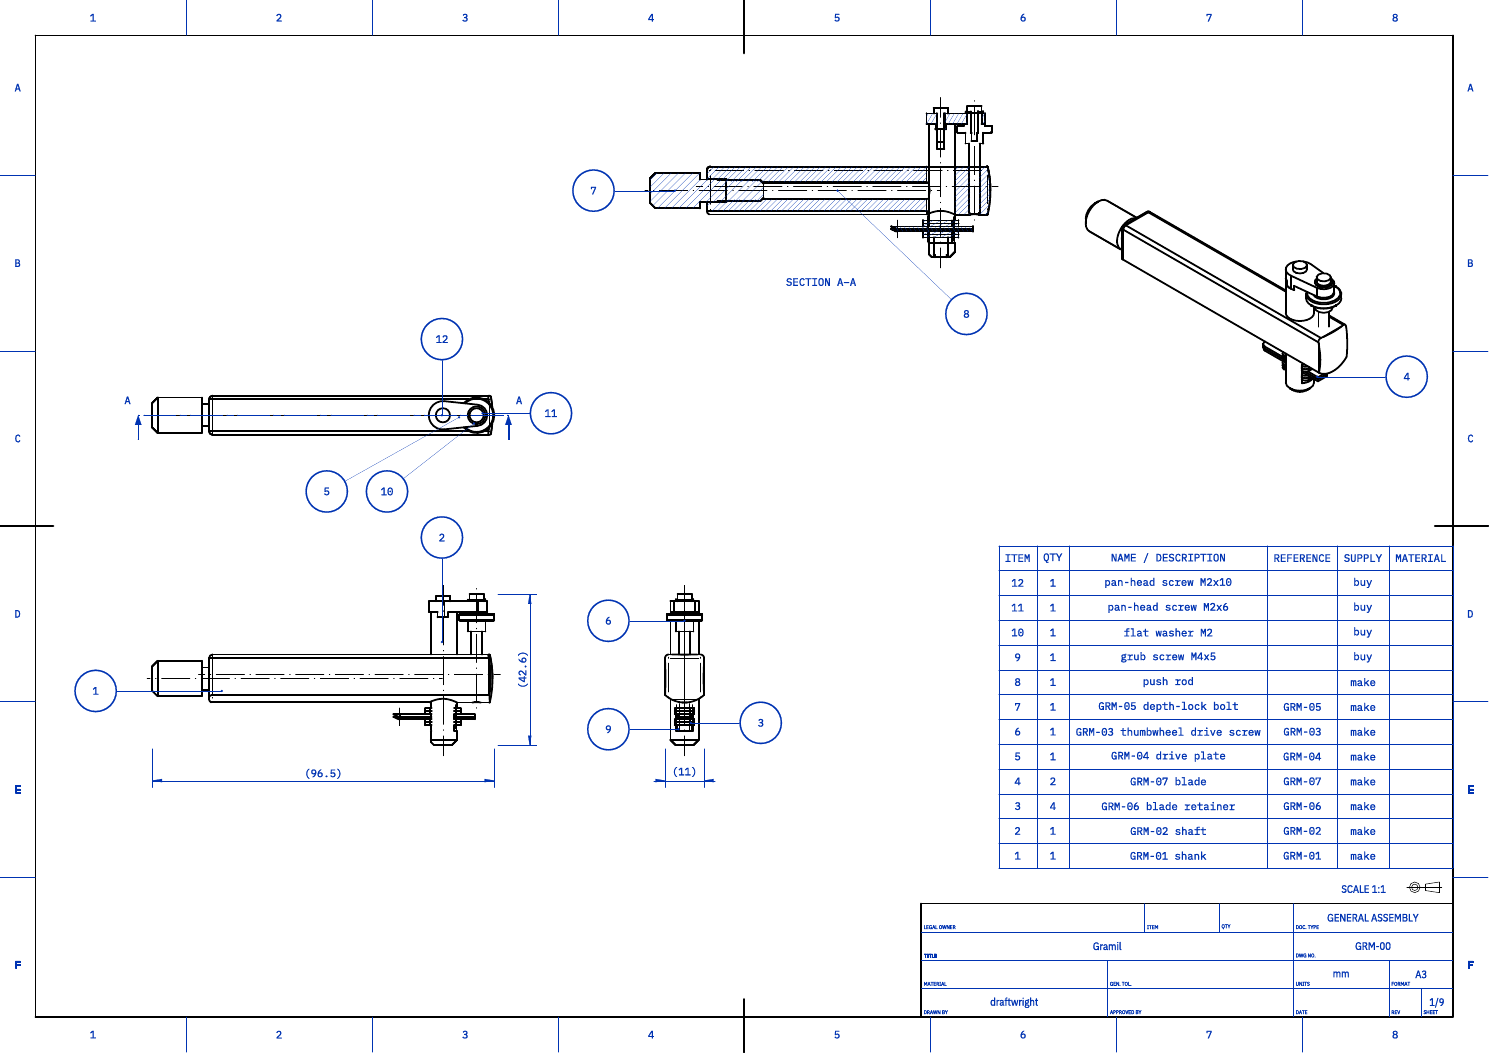
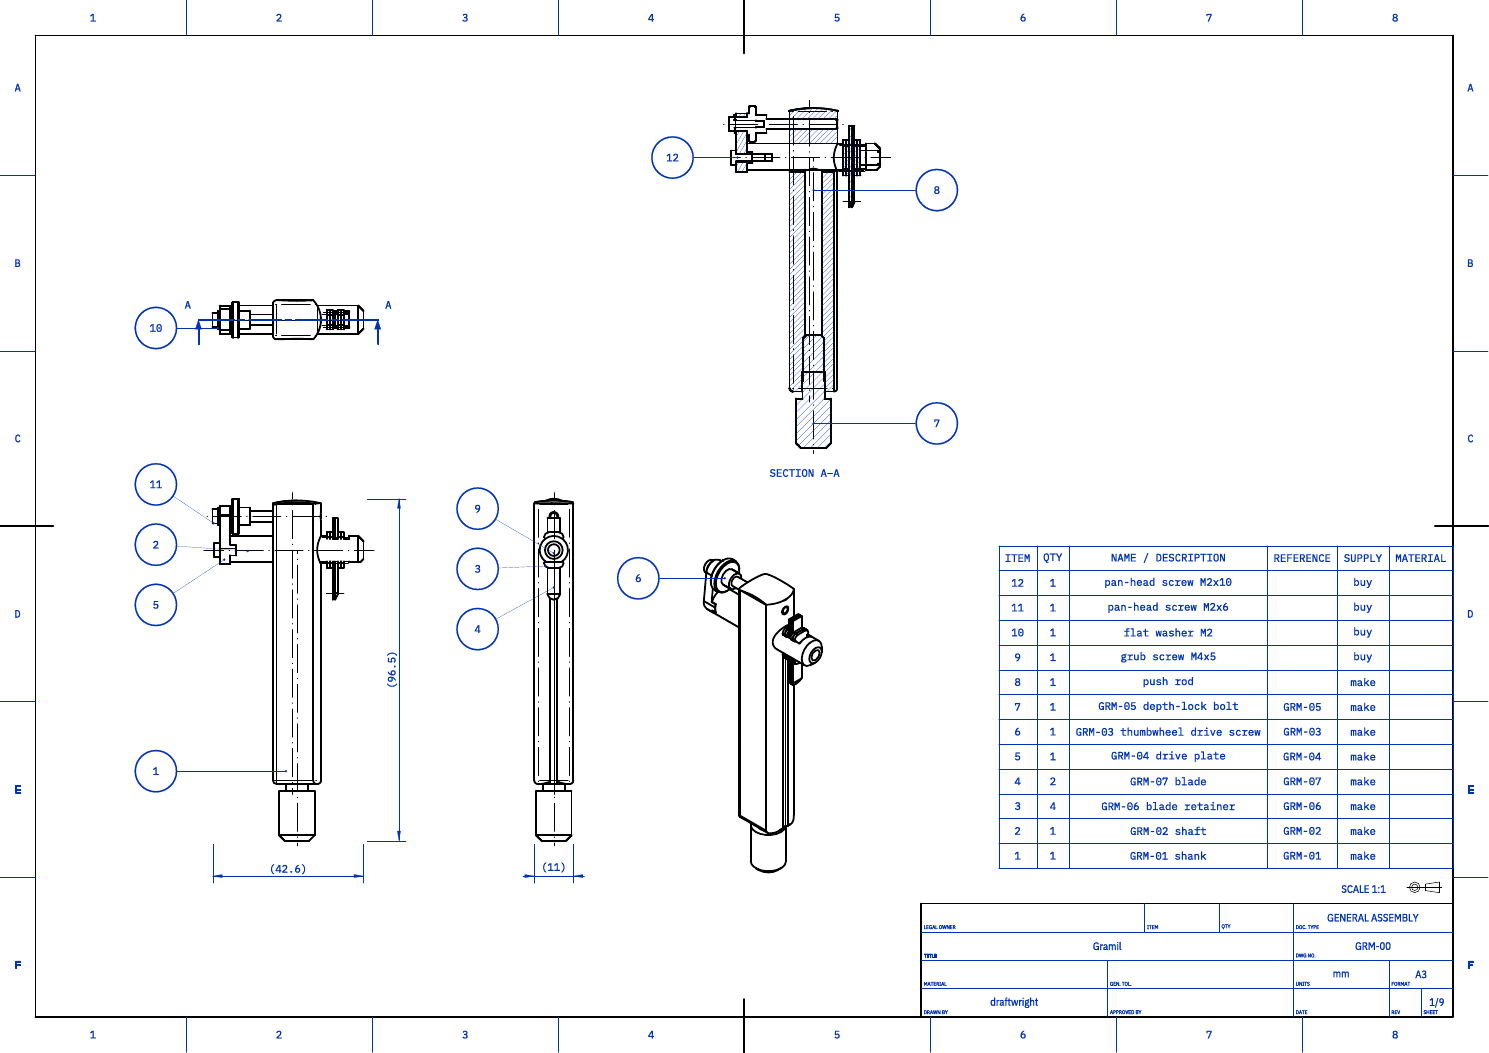
build123d page: callout moved below; gramil pack drawn as modelled (horizontal_axis=x)
Claude-Session: https://claude.ai/code/session_016GmpQtjJzqbE5JGVExhGiL

diff --git a/docs/build123d.md b/docs/build123d.md
@@ -143,14 +143,14 @@ the matching Part call, so each fact has one home.
 Each dimension and callout has an id, and `place` moves it. The ids appear in the
 `subjects` of `dwg.problems`; for a hole callout it is `"d:" + p.feature_id(hole) +
 "/bore.diameter"`. In step 3 the `⌀16 H7` leader crosses a `⌀5` hole
-(`leader_through_feature`). Asking for the side above the plan view clears it:
+(`leader_through_feature`). Asking for the side below the plan view clears it:
 
 ```python
 callout = "d:" + p.feature_id(bearing) + "/bore.diameter"
-dwg.update({"dimensions": {callout: {"place": {"view": "plan", "side": "above"}}}})
+dwg.update({"dimensions": {callout: {"place": {"view": "plan", "side": "below"}}}})
 ```
 
-![The H7 callout and its position frame moved above the plan view](images/build123d-callout-above.png)
+![The H7 callout and its position frame moved below the plan view](images/build123d-callout-below.png)
 
 `side` keeps the engine choosing a clear spot on that side. `lane` and `along` fix
 the position, and `{"pinned": True, "offset": [dx, dy]}` sets the bend in paper mm
@@ -166,7 +166,8 @@ for each made part, as one PDF plus a CSV/JSON bill of materials. From a STEP fi
 ```python
 from draftwright import Pack
 
-pack = Pack("gramil-assembly.step", title="Gramil", number="GRM-00")
+pack = Pack("gramil-assembly.step", title="Gramil", number="GRM-00",
+            horizontal_axis="x")
 pdf, csv = pack.render("gramil", formats=("pdf", "csv"))
 ```
 
@@ -174,7 +175,9 @@ pdf, csv = pack.render("gramil", formats=("pdf", "csv"))
 
 That is the first page of the gramil's nine-page pack: balloons and a parts list
 with made and bought parts (the screws and washer are recognised as bought), then
-a drawing for each made part.
+a drawing for each made part. `horizontal_axis="x"` keeps the model's X axis across
+the sheet, so the gauge is drawn standing up as it was modelled; without it, the
+longest axis runs across the sheet.
 
 From build123d, pass a `Compound` whose children are labelled with the `Part`
 names, and the Parts that carry requirements:
